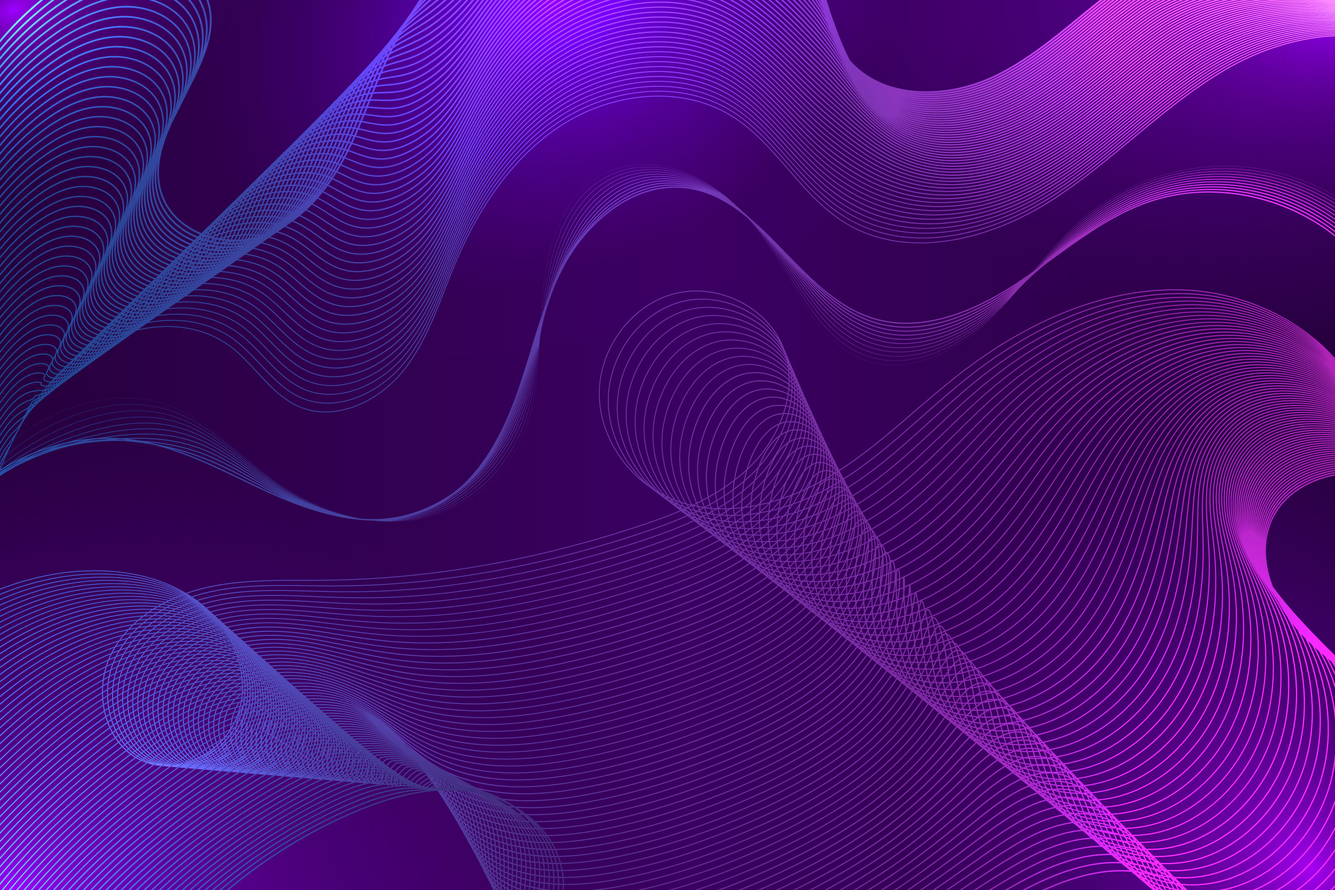
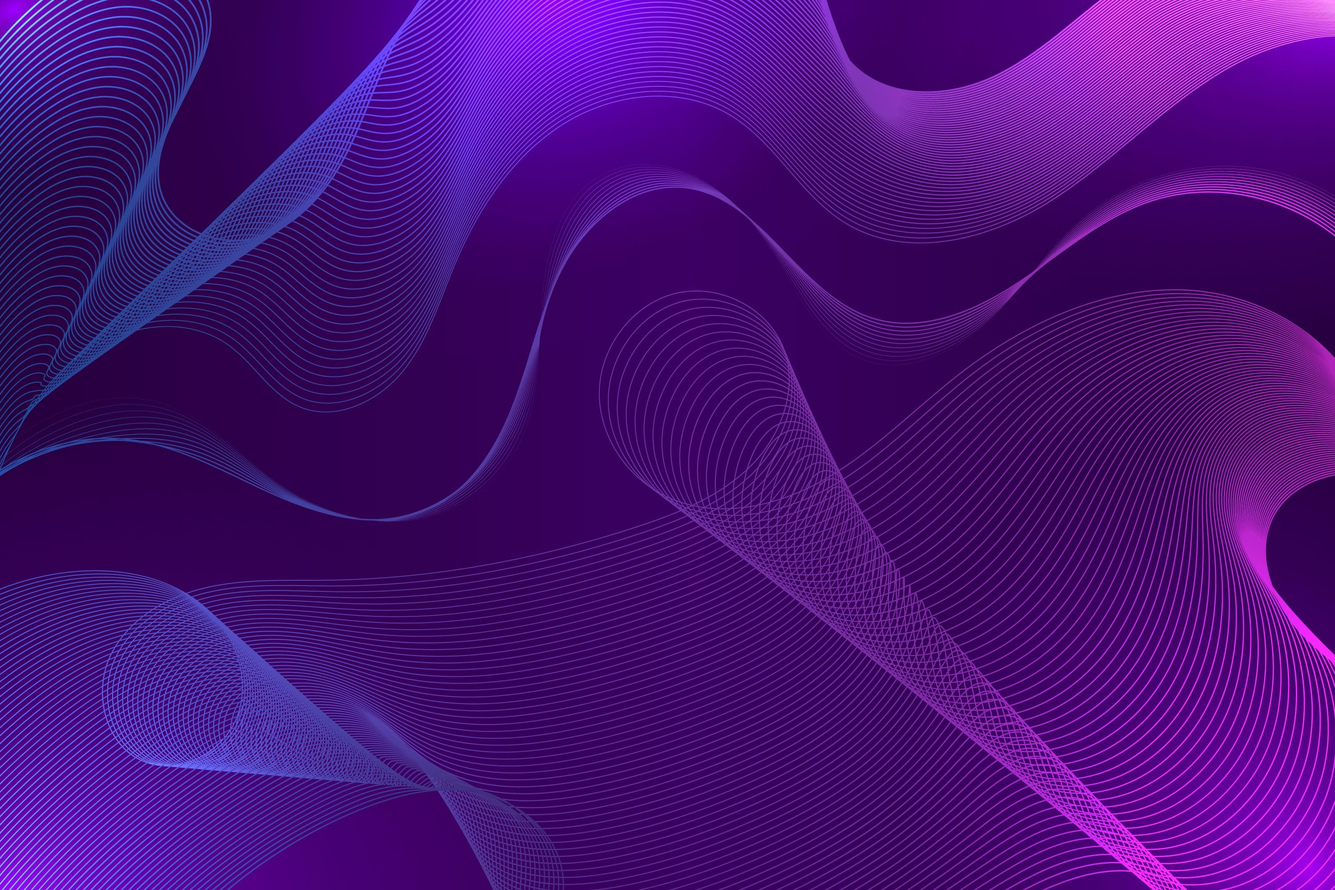
Compressed background & modified TaskItem

diff --git a/src/components/TaskItem.jsx b/src/components/TaskItem.jsx
@@ -55,7 +55,7 @@ export function TaskItem({ task, index }) {
             {isOwner && (
               <button
                 onClick={onClickBtn}
-                className="invisible group-hover:visible items-center justify-center absolute right-0.5 top-0.5 hover:bg-slate-200 rounded-full h-8 w-8 py-1.5 px-2 z-10"
+                className="invisible hidden sm:block group-hover:visible items-center justify-center absolute right-0.5 top-0.5 hover:bg-slate-200 rounded-full h-8 w-8 py-1.5 px-2 z-10"
               >
                 <i className="fa-solid fa-pencil pointer-events-none"></i>
               </button>

diff --git a/index.html b/index.html
@@ -2,7 +2,7 @@
 <html lang="en">
   <head>
     <meta charset="UTF-8" />
-    <link rel="icon" type="image/svg+xml" href="ico.png" />
+    <link rel="icon" type="image/svg+xml" href="logo.png" />
     <meta name="viewport" content="width=device-width, initial-scale=1.0" />
     <title>Boardify</title>
   </head>
